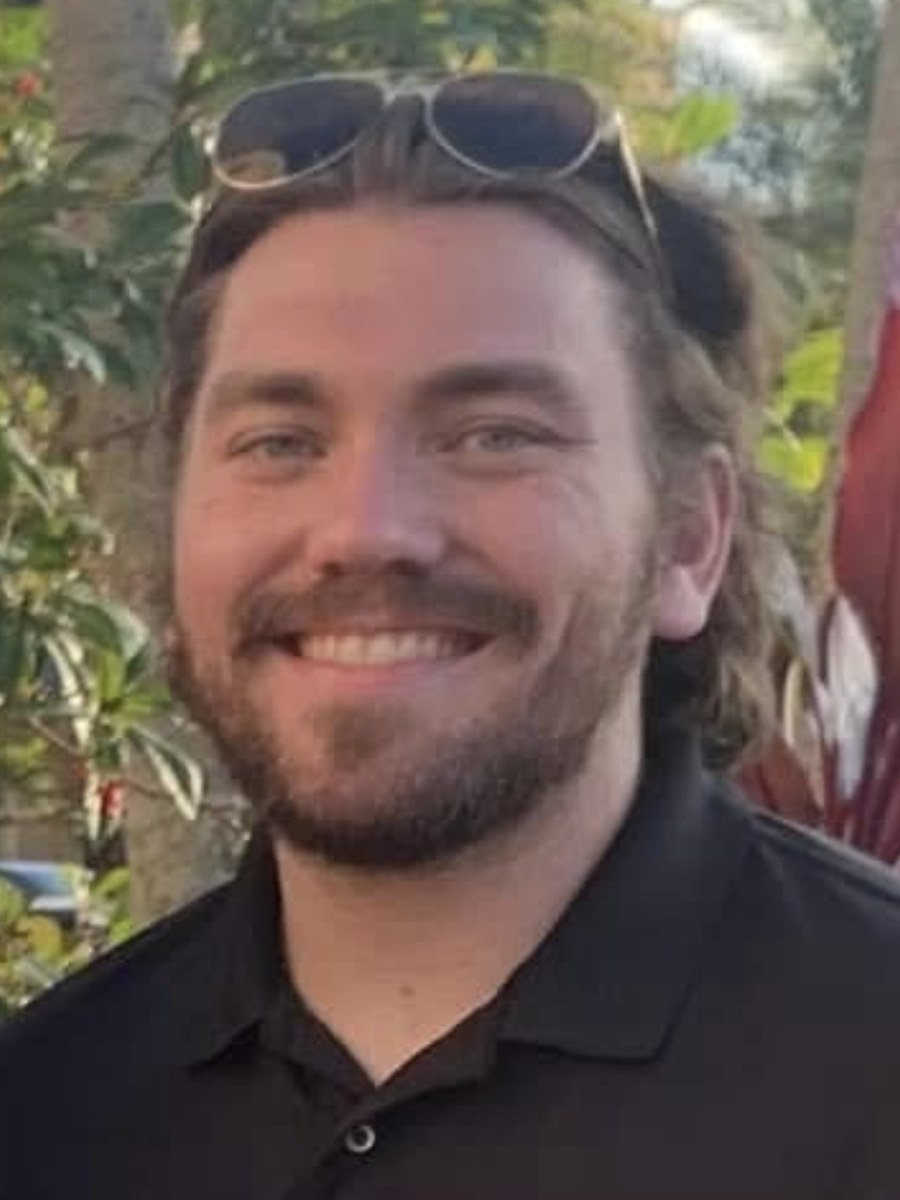
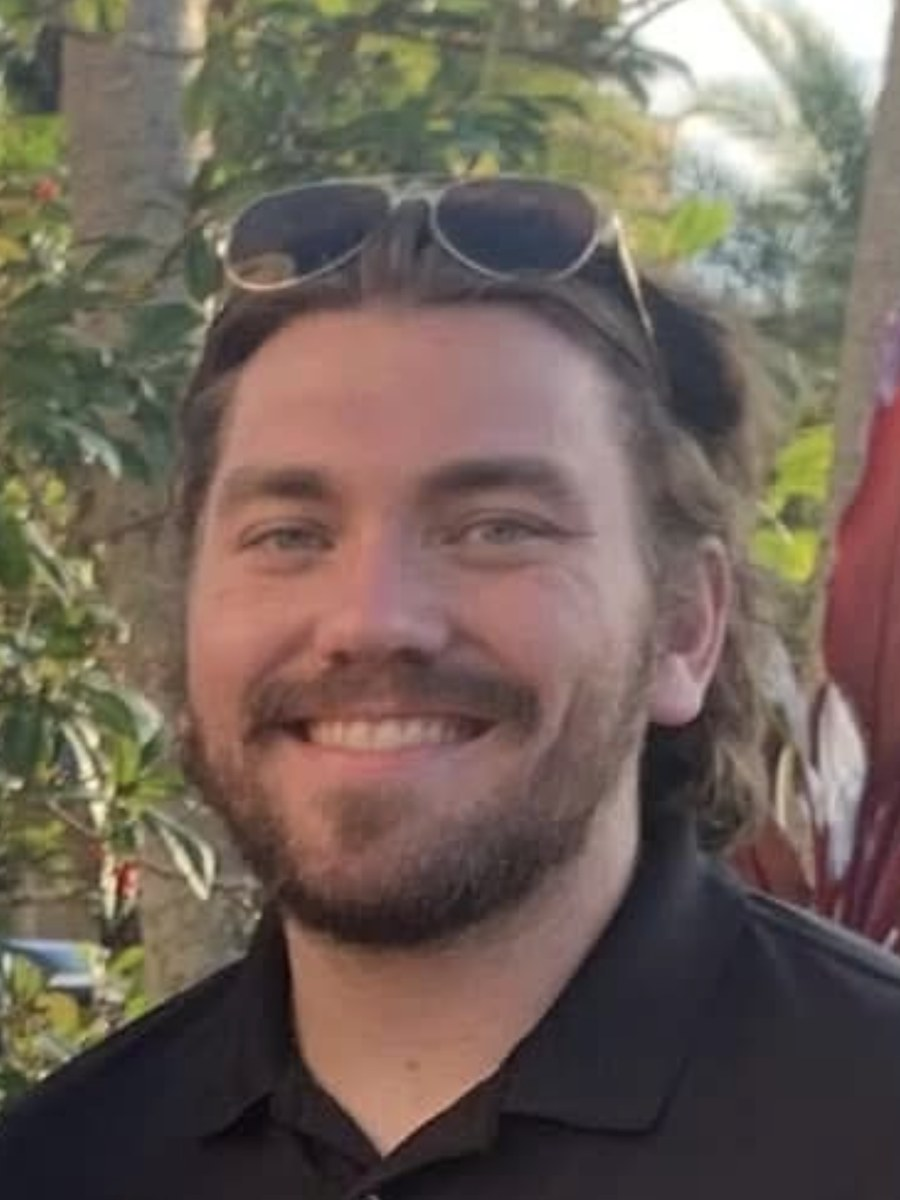
Wedding party: frames fit each photo, short rows centered
- Near-square photos use the square gold frame so they are not cropped
  hard into a tall window
- Faces sit a little higher in every frame
- Wider crops for Ethan and Gabe
- The last row of each side is centered instead of leaving an empty slot

Claude-Session: https://claude.ai/code/session_01MdkoXnNiQJ4Jr2i7g7iQzb

diff --git a/wedding-party.html b/wedding-party.html
@@ -177,13 +177,13 @@
           <div class="person-role">Matron of Honor</div>
         </article>
 
-        <article class="person">
+        <article class="person frame-square">
           <div class="person-portrait"><img src="/photos/erica.jpg" alt="Erica" loading="lazy" onerror="this.parentElement.classList.add('placeholder'); this.remove();" /></div>
           <h4 class="person-name">Erica</h4>
           <div class="person-role">Sister of the Bride</div>
         </article>
 
-        <article class="person">
+        <article class="person frame-square">
           <div class="person-portrait"><img src="/photos/ali.jpg" alt="Ali" loading="lazy" onerror="this.parentElement.classList.add('placeholder'); this.remove();" /></div>
           <h4 class="person-name">Ali</h4>
           <div class="person-role">Bridesmaid</div>
@@ -195,13 +195,13 @@
           <div class="person-role">Bridesmaid</div>
         </article>
 
-        <article class="person">
+        <article class="person frame-square">
           <div class="person-portrait"><img src="/photos/jacey.jpg" alt="Jacey" loading="lazy" onerror="this.parentElement.classList.add('placeholder'); this.remove();" /></div>
           <h4 class="person-name">Jacey</h4>
           <div class="person-role">Bridesmaid</div>
         </article>
 
-        <article class="person">
+        <article class="person frame-square">
           <div class="person-portrait"><img src="/photos/maddie.jpg" alt="Maddie" loading="lazy" onerror="this.parentElement.classList.add('placeholder'); this.remove();" /></div>
           <h4 class="person-name">Maddie</h4>
           <div class="person-role">Bridesmaid</div>
@@ -235,7 +235,7 @@
           <div class="person-role">Groomsman</div>
         </article>
 
-        <article class="person">
+        <article class="person frame-square">
           <div class="person-portrait"><img src="/photos/nick.jpg" alt="Nick" loading="lazy" onerror="this.parentElement.classList.add('placeholder'); this.remove();" /></div>
           <h4 class="person-name">Nick</h4>
           <div class="person-role">Groomsman</div>
@@ -259,7 +259,7 @@
           <div class="person-role">Groomsman</div>
         </article>
 
-        <article class="person frame-rect">
+        <article class="person frame-square">
           <div class="person-portrait"><img src="/photos/eddy.jpg" alt="Eddy" loading="lazy" onerror="this.parentElement.classList.add('placeholder'); this.remove();" /></div>
           <h4 class="person-name">Eddy</h4>
           <div class="person-role">Groomsman</div>

diff --git a/styles.css b/styles.css
@@ -2220,9 +2220,12 @@
 
   /* PEOPLE */
   .almanac .party-grid {
-    display: grid; grid-template-columns: repeat(auto-fill, minmax(280px, 1fr));
+    display: flex; flex-wrap: wrap; justify-content: center;
     gap: 70px 40px;
   }
+  /* Three across on wide screens; a short last row sits centered instead of
+     leaving an empty slot. */
+  .almanac .party-grid > .person { flex: 0 1 280px; }
   .almanac .party-grid.single-feature { max-width: 360px; margin: 0 auto; }
   .almanac .person { text-align: center; position: relative; }
   /* A brass nail above each portrait, so it reads as hung on the wall. */
@@ -2257,7 +2260,7 @@
   }
   .almanac .person-portrait img {
     position: absolute; inset: 0; z-index: 1;
-    width: 100%; height: 100%; object-fit: cover;
+    width: 100%; height: 100%; object-fit: cover; object-position: 50% 30%;
     clip-path: var(--clip);
     filter: grayscale(1) contrast(1.15) brightness(0.95);
   }
@@ -2287,11 +2290,11 @@
     --frame: url('/images/frames/frame-gold-oval-ornate.png'); --ar: 543 / 720;
     --clip: ellipse(35% 37% at 50% 50%);
   }
-  /* Per-person override: a rectangular gold frame for photos that look
-     distorted inside an oval. */
-  .almanac .party-grid > .person.frame-rect .person-portrait {
-    --frame: url('/images/frames/frame-gold-portrait.png'); --ar: 471 / 720;
-    --clip: inset(10% 13% 8% 13% round 5%);
+  /* Photo-shape override: near-square photos get the square frame so they are
+     not cropped hard into a tall window (which made them look zoomed in). */
+  .almanac .party-grid > .person.frame-square .person-portrait {
+    --frame: url('/images/frames/frame-gold-square.png'); --ar: 671 / 720;
+    --clip: inset(13% 13% 13% 13% round 5%);
   }
   .almanac .person-name {
     font-family: var(--a-serif-body); font-size: 34px; line-height: 1;

diff --git a/sw.js b/sw.js
@@ -3,7 +3,7 @@
    offline cache as it goes. When the network is unreachable it falls back to
    the cached copy so the app still opens and works offline. */
 
-const VERSION = 'v20';
+const VERSION = 'v21';
 const CACHE = 'bergkamp-wedding-' + VERSION;
 
 // Pre-cache the homepage, the things it needs to render, the manifest, and the
